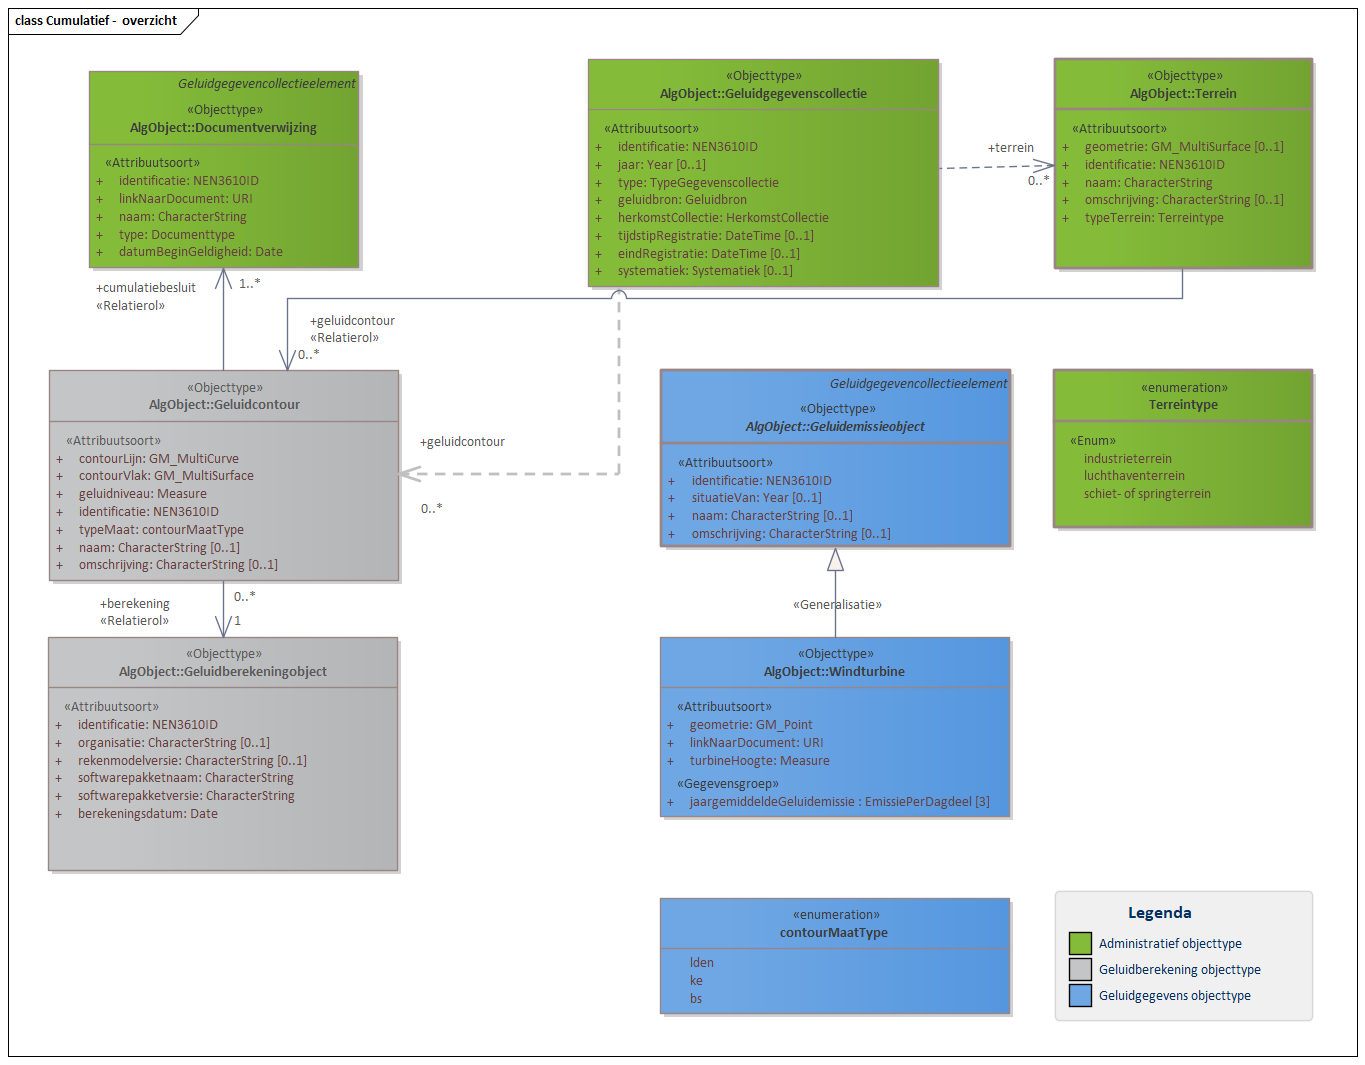
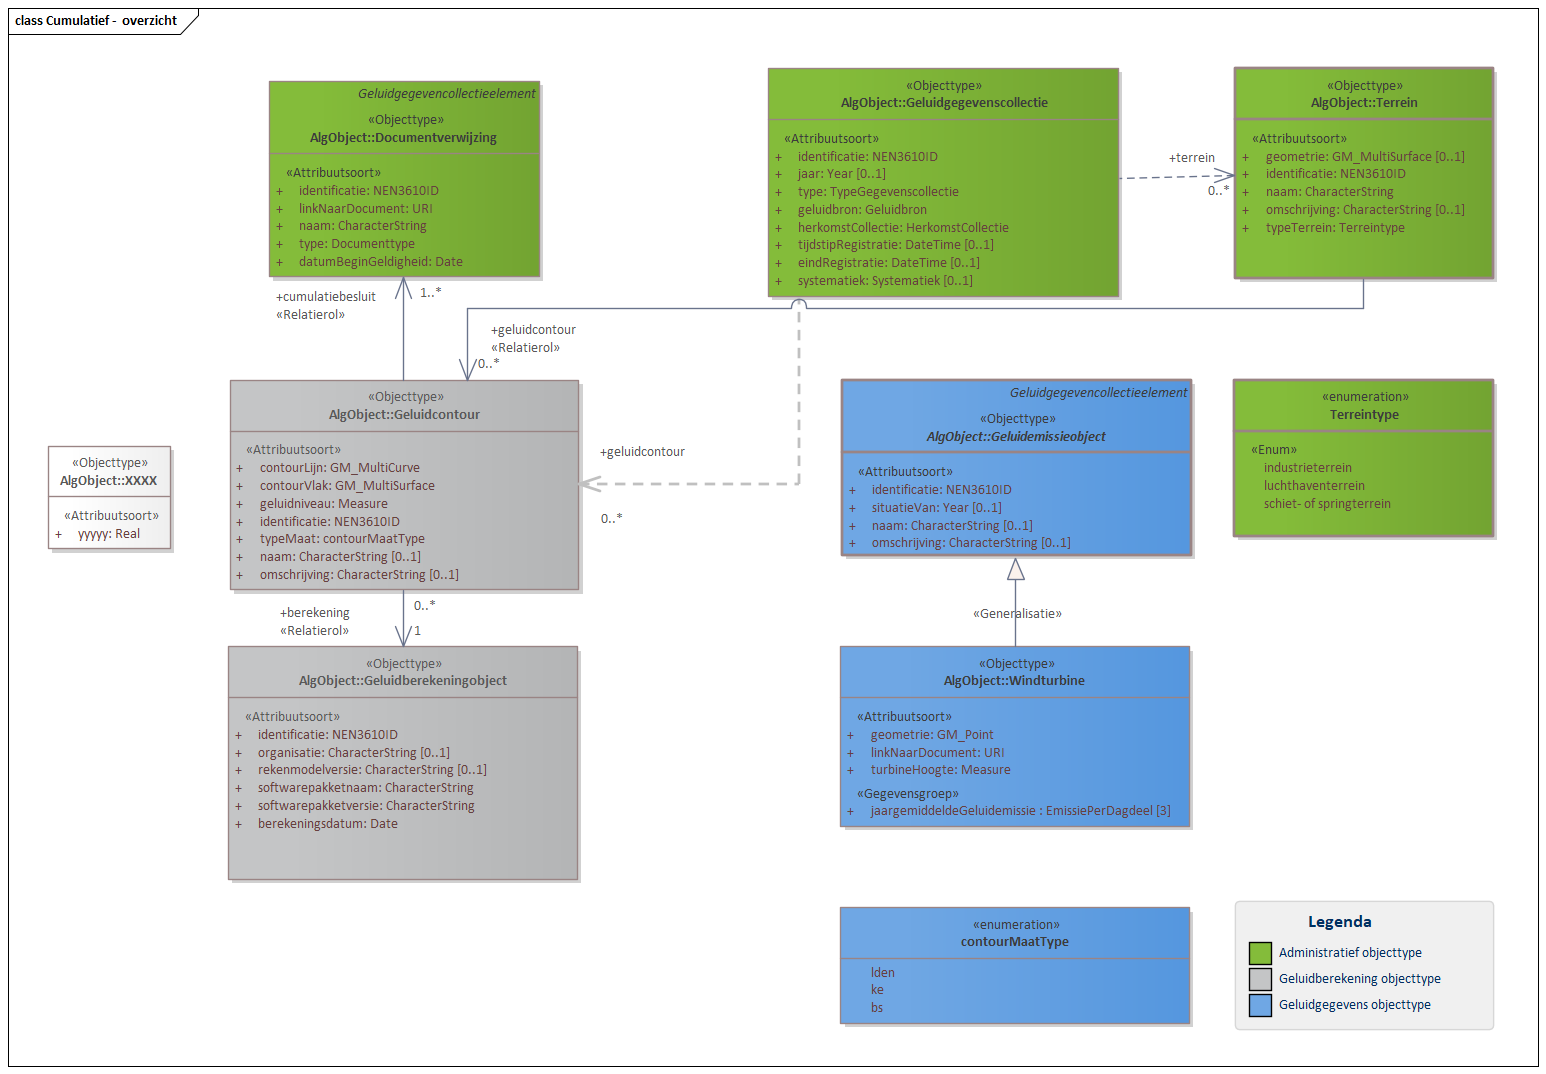
MIMLM-InformatiemodelGeluid-1.0-0-20210319-20210326-101753

diff --git a/data/img-cat.respec.html b/data/img-cat.respec.html
@@ -1,7 +1,7 @@
 
 <section id="cat" class="normative">
    <h2>Gegevensdefinitie</h2>
-   <!--MIMLM-InformatiemodelGeluid-1.0-0-20210319-20210324-190323 imvertor 1.61.3-->
+   <!--MIMLM-InformatiemodelGeluid-1.0-0-20210319-20210326-101753 imvertor 1.61.3-->
    <section id="EAID_66AE8FA2_74FC_4d4d_B2B2_249C8D6A651F">
       <h3>Diagram   Basismodel - overzicht</h3>
       <div class="imageinfo overview"><img src="data/Images/EAID_66AE8FA2_74FC_4d4d_B2B2_249C8D6A651F.png" usemap="#imagemap-EAID_66AE8FA2_74FC_4d4d_B2B2_249C8D6A651F" alt="Diagram Het Basismodel vormt de samenhang tussen alle domeinen van het IMGeluid. Alle objecttypen en relaties uit het IMGeluid komen samen in een Geluidgegevenscollectie.&#xA;Binnen het IMGeluid worden geluidbrongegevens die gebruikt worden voor GPP en BGE berekeningen, gemodelleerd als een Geluidemissie of Geluidoverdrachtobject. De resultaten van GPP of BGE berekeningen worden opgeslagen in een Geluidgegevenscollectie. De onderliggende juridische vastleggingen, vaststellingen, of monitoringsverslagen van deze omgevings- of monitoringswaarden, worden ook opgeslagen in dezelfde Geluidgegevenscollectie.&#xA;Per geluidbron per toepassing kan er een Geluidgegevenscollectie bestaan. Deze kan geassocieerd worden met maximaal 1 Geluidaandachtsgebied. Wanneer geluidgegevens met betrekking tot cumulatieberekeningen worden aangeleverd, bevat een Geluidgegevenscollectie geen Geluidaandachtsgebied.&#xA;&#xA;&#xA;Klik met de rechtermuisknop op het diagram om de afbeelding op volledige grote in een nieuw tabblad te openen."><map name="imagemap-EAID_66AE8FA2_74FC_4d4d_B2B2_249C8D6A651F"><area shape="rect" alt="Geluidgegevencollectieelement" coords="746,379,938,474" href="#graph_EAID_44C107F9_532C_40ad_9967_F7FBAECC227D"><area shape="rect" alt="Monitoringresultaat" coords="718,891,1011,1058" href="#graph_EAID_BA00B77B_D408_4590_8185_CE59E5838F1E"><area shape="rect" alt="Basisgeluidemissieobject" coords="103,891,466,1058" href="#graph_EAID_9AD15457_4880_42e5_8C72_4E5EFAC91B15"><area shape="rect" alt="Geluidproductieplafondobject" coords="1241,891,1594,1155" href="#graph_EAID_237408F8_8CE9_4828_B8FB_1A5B8C917622"><area shape="rect" alt="Geluidberekeningobject" coords="707,1212,1055,1446" href="#graph_EAID_97ED59FE_9FCA_49a6_8F07_214E48000B76"><area shape="rect" alt="Documentverwijzing" coords="756,563,1048,738" href="#graph_EAID_7E137496_1028_4af5_9367_569358A2167B"><area shape="rect" alt="Geluidaandachtsgebied" coords="1349,253,1595,392" href="#graph_EAID_B06128AC_518C_4e26_88E5_14ED5A050A19"><area shape="rect" alt="Geluidgegevenscollectie" coords="640,68,1066,297" href="#graph_EAID_313C5AF9_49B8_4860_9E65_DE7C70084864"><area shape="rect" alt="Geluidemissieobject" coords="112,264,456,425" href="#graph_EAID_361C96BA_A638_494e_80BA_590ED481A81B"><area shape="rect" alt="Geluidoverdrachtobject" coords="112,519,456,681" href="#graph_EAID_2FEA326B_B7E7_48a4_B50F_00CCB2694677"></map><p><b>Basismodel - overzicht</b> — Het Basismodel vormt de samenhang tussen alle domeinen van het IMGeluid. Alle objecttypen
@@ -5146,7 +5146,7 @@
                </tr>
                <tr>
                   <th>Herkomst definitie</th>
-                  <td>Reken- en meetvoorschrift geluid, 2012;</td>
+                  <td>IMGeluid</td>
                </tr>
                <tr>
                   <th>Regels</th>
@@ -6351,6 +6351,56 @@
                </tr>
             </tbody>
          </table>
+         </section>
+      <a class="anchor" id="graph_EAID_D30FA481_28DD_4f77_8CF1_FBE659F4FF3A"></a><a class="anchor" id="global_class_IMGeluidAlgemeen_XXXX"></a><section id="global_class_IMGeluidAlgemeen_XXXX">
+         <h4>   XXXX</h4>
+         
+         <table style="width: 100%;">
+            <colgroup style="width: 30%;"></colgroup>
+            <colgroup style="width: 70%;"></colgroup>
+            <tbody>
+               <tr>
+                  <th>Naam</th>
+                  <td>XXXX</td>
+               </tr>
+               <tr>
+                  <th>Herkomst</th>
+                  <td>BRO</td>
+               </tr>
+               <tr>
+                  <th>Herkomst definitie</th>
+                  <td>BRO</td>
+               </tr>
+            </tbody>
+         </table>
+         
+         <h5>Overzicht attributen  </h5>
+         
+         <table style="width: 100%;">
+            <colgroup style="width: 30%;"></colgroup>
+            <colgroup style="width: 50%;"></colgroup>
+            <colgroup style="width: 10%;"></colgroup>
+            <colgroup style="width: 10%;"></colgroup>
+            <tbody>
+               <tr>
+                  <th>Attribuutnaam</th>
+                  <th>Definitie</th>
+                  <th>Type</th>
+                  <th>Kardinaliteit</th>
+               </tr>
+               <tr>
+                  <td>
+                     <a class="link" href="#detail_attribute_IMGeluidAlgemeen_XXXX_yyyyy">yyyyy</a>
+                     </td>
+                  <td></td>
+                  <td>
+                     REAL
+                     </td>
+                  <td>1</td>
+               </tr>
+            </tbody>
+         </table>
+         
          </section>
       </section>
    <section id="">
@@ -19049,6 +19099,59 @@
                </section>
             </section>
          
+         <a class="anchor" id="detail_class_IMGeluidAlgemeen_XXXX"></a><section id="detail_class_IMGeluidAlgemeen_XXXX">
+            <h5>   XXXX</h5>
+            <a class="anchor" id="detail_attribute_IMGeluidAlgemeen_XXXX_yyyyy"></a><section id="detail_attribute_IMGeluidAlgemeen_XXXX_yyyyy">
+               <h6>  <a href="#global_class_IMGeluidAlgemeen_XXXX">XXXX</a> yyyyy</h6>
+               
+               <table style="width: 100%;">
+                  <colgroup style="width: 30%;"></colgroup>
+                  <colgroup style="width: 70%;"></colgroup>
+                  <tbody>
+                     <tr>
+                        <th>Naam</th>
+                        <td>yyyyy</td>
+                     </tr>
+                     <tr>
+                        <th>Herkomst</th>
+                        <td>BRO</td>
+                     </tr>
+                     <tr>
+                        <th>Herkomst definitie</th>
+                        <td>BRO</td>
+                     </tr>
+                     <tr>
+                        <th>Mogelijk geen waarde</th>
+                        <td>Nee</td>
+                     </tr>
+                     <tr>
+                        <th>Indicatie formele historie</th>
+                        <td>Nee</td>
+                     </tr>
+                     <tr>
+                        <th>Kardinaliteit</th>
+                        <td>1</td>
+                     </tr>
+                     <tr>
+                        <th>Indicatie authentiek</th>
+                        <td>Authentiek</td>
+                     </tr>
+                     <tr>
+                        <th>Type</th>
+                        <td>REAL</td>
+                     </tr>
+                     <tr>
+                        <th>Meeteenheid</th>
+                        <td>BRO</td>
+                     </tr>
+                     <tr>
+                        <th>Indicatie afleidbaar</th>
+                        <td>Zie package</td>
+                     </tr>
+                  </tbody>
+               </table>
+               </section>
+            </section>
          </section>
       
       
@@ -21328,7 +21431,7 @@
 </section>
 <section id="lis" class="normative">
    <h2>Inhoud van waardenlijsten</h2>
-   <!--MIMLM-InformatiemodelGeluid-1.0-0-20210319-20210324-190323 imvertor 1.61.3--><a class="anchor" id="graph_EAID_C9ACE184_6E2B_40c1_ACE0_A7C5EE554EF9"></a><a class="anchor" id="detail_class_IMGeluidAlgemeen_Schermtype"></a><section id="detail_class_IMGeluidAlgemeen_Schermtype">
+   <!--MIMLM-InformatiemodelGeluid-1.0-0-20210319-20210326-101753 imvertor 1.61.3--><a class="anchor" id="graph_EAID_C9ACE184_6E2B_40c1_ACE0_A7C5EE554EF9"></a><a class="anchor" id="detail_class_IMGeluidAlgemeen_Schermtype"></a><section id="detail_class_IMGeluidAlgemeen_Schermtype">
       <h3>Enumeratie details  Schermtype</h3>
       
       <table style="width: 100%;" class="list">
